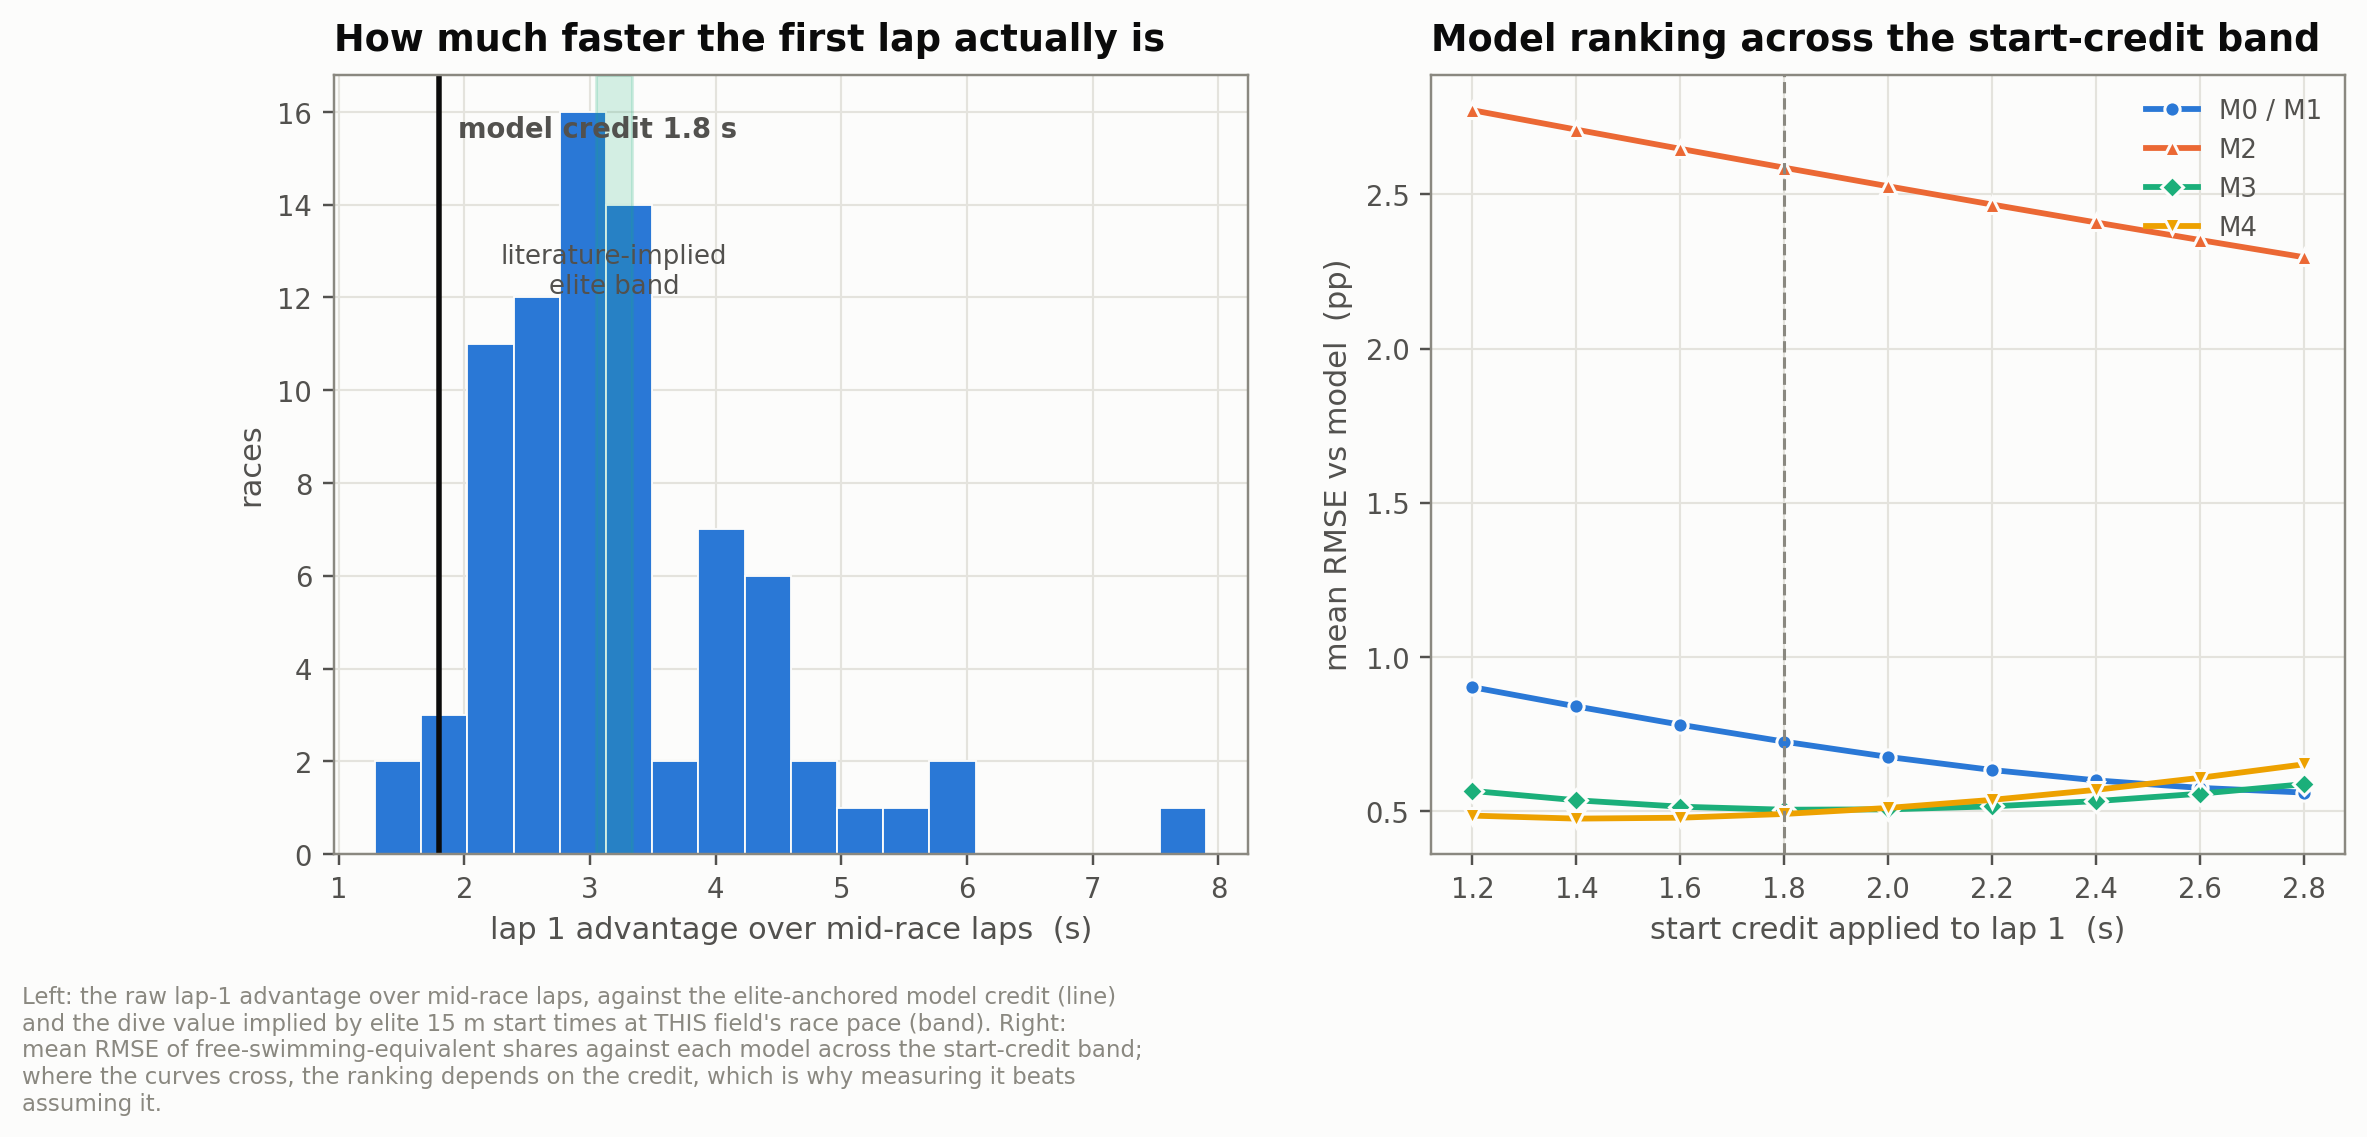
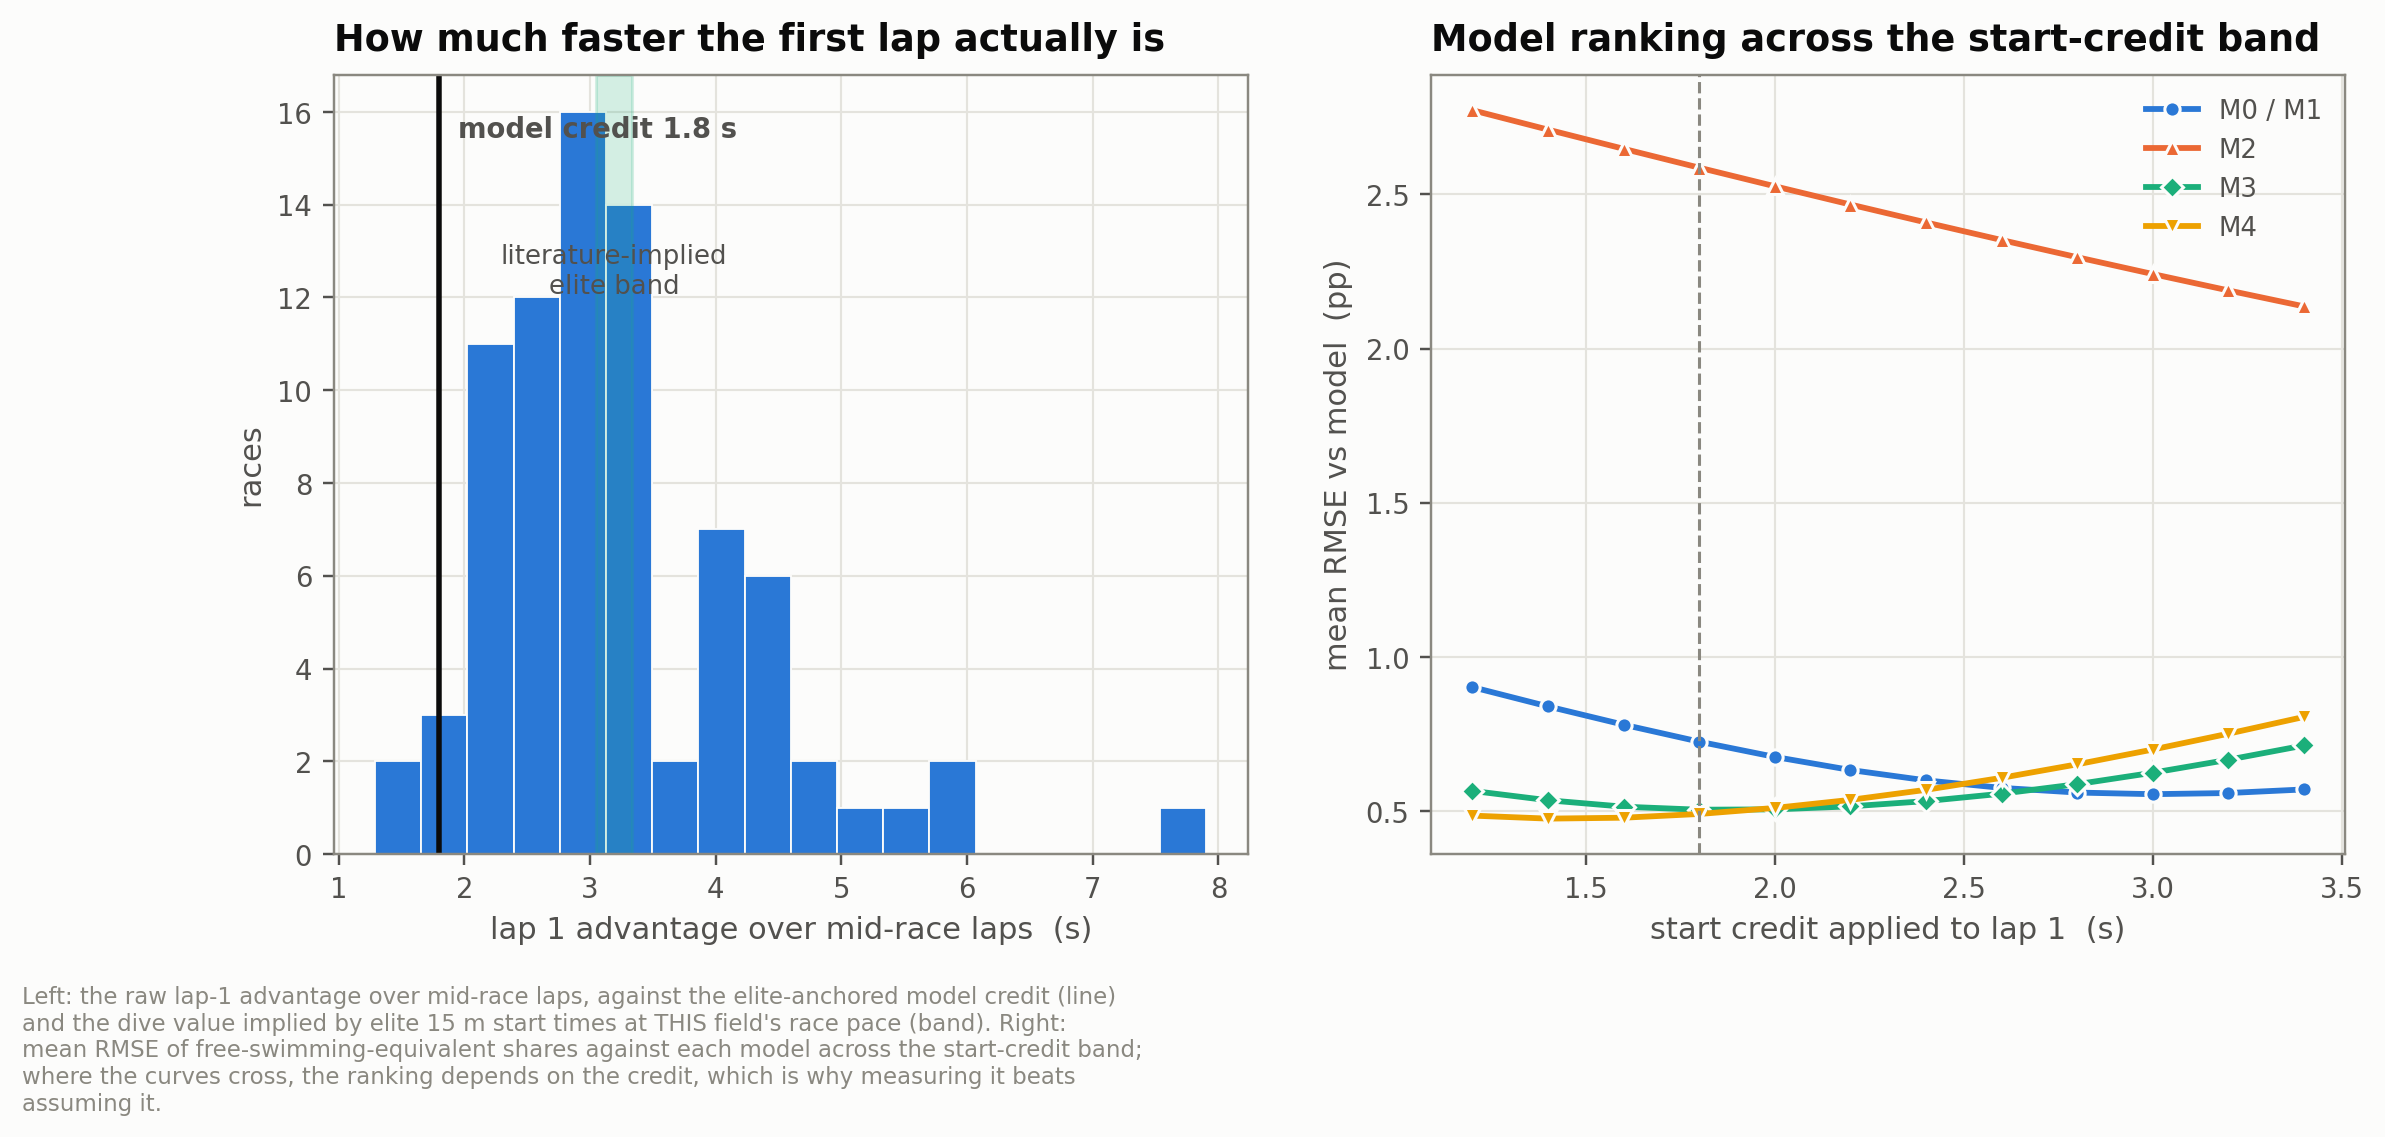
docs(plan): log start-transform amendment, extend credit band to 3.4 s

diff --git a/scripts/empirical_analysis.py b/scripts/empirical_analysis.py
@@ -190,8 +190,9 @@ def start_effect(ok: pd.DataFrame, shapes: dict):
     lit_lo = 15.0 / v_race.mean() - 6.41   # Rudnik et al. 2023, intl males
     lit_hi = 15.0 / v_race.mean() - 6.12   # Tor, Pease & Ball 2014, elite males
 
-    # Sensitivity of the model ranking to the start credit.
-    offsets = np.round(np.arange(1.2, 2.81, 0.2), 2)
+    # Sensitivity of the model ranking to the start credit, over the registered
+    # band (1.2-3.4 s after the 2026-09-01 amendment; see validation_plan §7).
+    offsets = np.round(np.arange(1.2, 3.41, 0.2), 2)
     rows = []
     T = ok["final_time_s"].to_numpy()
     laps = np.vstack([ok[f"split{i}_time"].to_numpy() for i in range(1, 5)]).T
@@ -257,6 +258,7 @@ def start_effect(ok: pd.DataFrame, shapes: dict):
         "lit_band": (float(lit_lo), float(lit_hi)),
         "ranking_stable": bool((sens["best"] == sens["best"].iloc[0]).all()),
         "best_everywhere": str(sens["best"].iloc[0]),
+        "band": (float(offsets[0]), float(offsets[-1])),
     }
     return path, sens, stats
 
@@ -302,9 +304,12 @@ def write_report(ok, df_all, shapes, sens, stats) -> str:
                            for r in sens.itertuples()
                            if r.Index in (0, len(sens) - 1))
         band_txt = (f"**the winner changes across the band** ({firsts}; full "
-                    f"grid in pilot_start_sensitivity.csv). The model ranking "
-                    f"therefore DEPENDS on the start credit, which promotes "
-                    f"measuring it from housekeeping to decisive.")
+                    f"grid in pilot_start_sensitivity.csv). Registered clause "
+                    f"§7.3 therefore applies and its wording is the conclusion "
+                    f"of record: **the data cannot distinguish the surviving "
+                    f"models given start uncertainty** — no credit value gets "
+                    f"picked for giving a cleaner answer. Measuring the start "
+                    f"is promoted from housekeeping to decisive.")
 
     lines = f"""# Pilot empirical report — first real races through the pipeline
 
@@ -425,7 +430,8 @@ constant cannot be right for both. The credit must still come from start-time
 measurements rather than lap differences — estimating it from lap differences
 would absorb genuine pacing into the correction.
 
-Ranking across the pre-registered start-credit band (1.2-2.8 s):
+Ranking across the registered start-credit band
+({stats['band'][0]:.1f}-{stats['band'][1]:.1f} s, as amended):
 {band_txt}
 
 Verdict on the Phase 7 question: **a dedicated, pace-aware start term is the

diff --git a/docs/validation_plan.md b/docs/validation_plan.md
@@ -5,8 +5,10 @@ pre-registration. Every decision below is fixed now; departures from it later
 must be labelled as exploratory rather than confirmatory.
 
 Date written: 2026-08-29. Races in hand at time of writing: **0**.
-Amendment log: 2026-08-31, start-credit band widened (see §7); no data had been
-used for calibration and the test set remained unopened at amendment time.
+Amendment log: 2026-08-31, start-credit band widened (see §7). 2026-09-01,
+start-transform sign error corrected and band extended to 3.4 s (see §7); at
+both amendment times no data had been used for calibration and the test set
+remained unopened.
 
 ---
 
@@ -137,11 +139,23 @@ fatigue parameter and overstate it.
 Pre-registered handling:
 
 1. Correct split 1 by `START_OFFSET_S` before computing `P_i`.
-2. Report every headline result across a sensitivity band of 1.2 s to 2.8 s.
+2. Report every headline result across a sensitivity band of 1.2 s to 3.4 s.
    [AMENDED 2026-08-31, before any calibration or test-set use: the original
    band was 1.2-2.4 s. Measured elite 15 m start times (Tor 2014; Rudnik 2023)
    imply a dive value up to ~3.0 s at this population's race pace, so the band
    was widened upward. Recorded as an amendment rather than silently edited.]
+   [AMENDED 2026-09-01, before any calibration or test-set use, two entries.
+   (a) The implementation of item 1 was found to SUBTRACT the credit from
+   observed lap 1 — the model-side transform applied to the data as well,
+   double-counting the credit by twice its value. Corrected to ADD the credit
+   back to lap 1 (the free-swimming-equivalent space, `model.recorded_to_raced`).
+   The registered metric definition (§3) is unchanged; the implementation now
+   matches its stated intent, and all pilot outputs were regenerated.
+   (b) The band's upper end moves 2.8 → 3.4 s: the same measured 15 m start
+   times give S = 15/v - t15 ≈ 3.1-3.4 s at the pilot field's mean race pace,
+   and a band excluding the field-pace dive value cannot honor item 3. The
+   extension can only widen, never narrow, the set of rankings item 3 must
+   confront.]
 3. If the model ranking changes anywhere inside that band, **the conclusion is
    that the data cannot distinguish the models given start uncertainty.** Report
    that rather than picking the value that gives the cleanest answer.

diff --git a/results/validation/pilot_report.md b/results/validation/pilot_report.md
@@ -117,8 +117,9 @@ constant cannot be right for both. The credit must still come from start-time
 measurements rather than lap differences — estimating it from lap differences
 would absorb genuine pacing into the correction.
 
-Ranking across the pre-registered start-credit band (1.2-2.8 s):
-**the winner changes across the band** (M4 at 1.2 s, M0 at 2.8 s; full grid in pilot_start_sensitivity.csv). The model ranking therefore DEPENDS on the start credit, which promotes measuring it from housekeeping to decisive.
+Ranking across the registered start-credit band
+(1.2-3.4 s, as amended):
+**the winner changes across the band** (M4 at 1.2 s, M0 at 3.4 s; full grid in pilot_start_sensitivity.csv). Registered clause §7.3 therefore applies and its wording is the conclusion of record: **the data cannot distinguish the surviving models given start uncertainty** — no credit value gets picked for giving a cleaner answer. Measuring the start is promoted from housekeeping to decisive.
 
 Verdict on the Phase 7 question: **a dedicated, pace-aware start term is the
 single highest-leverage improvement.** The lap-1 advantage no longer exceeds
